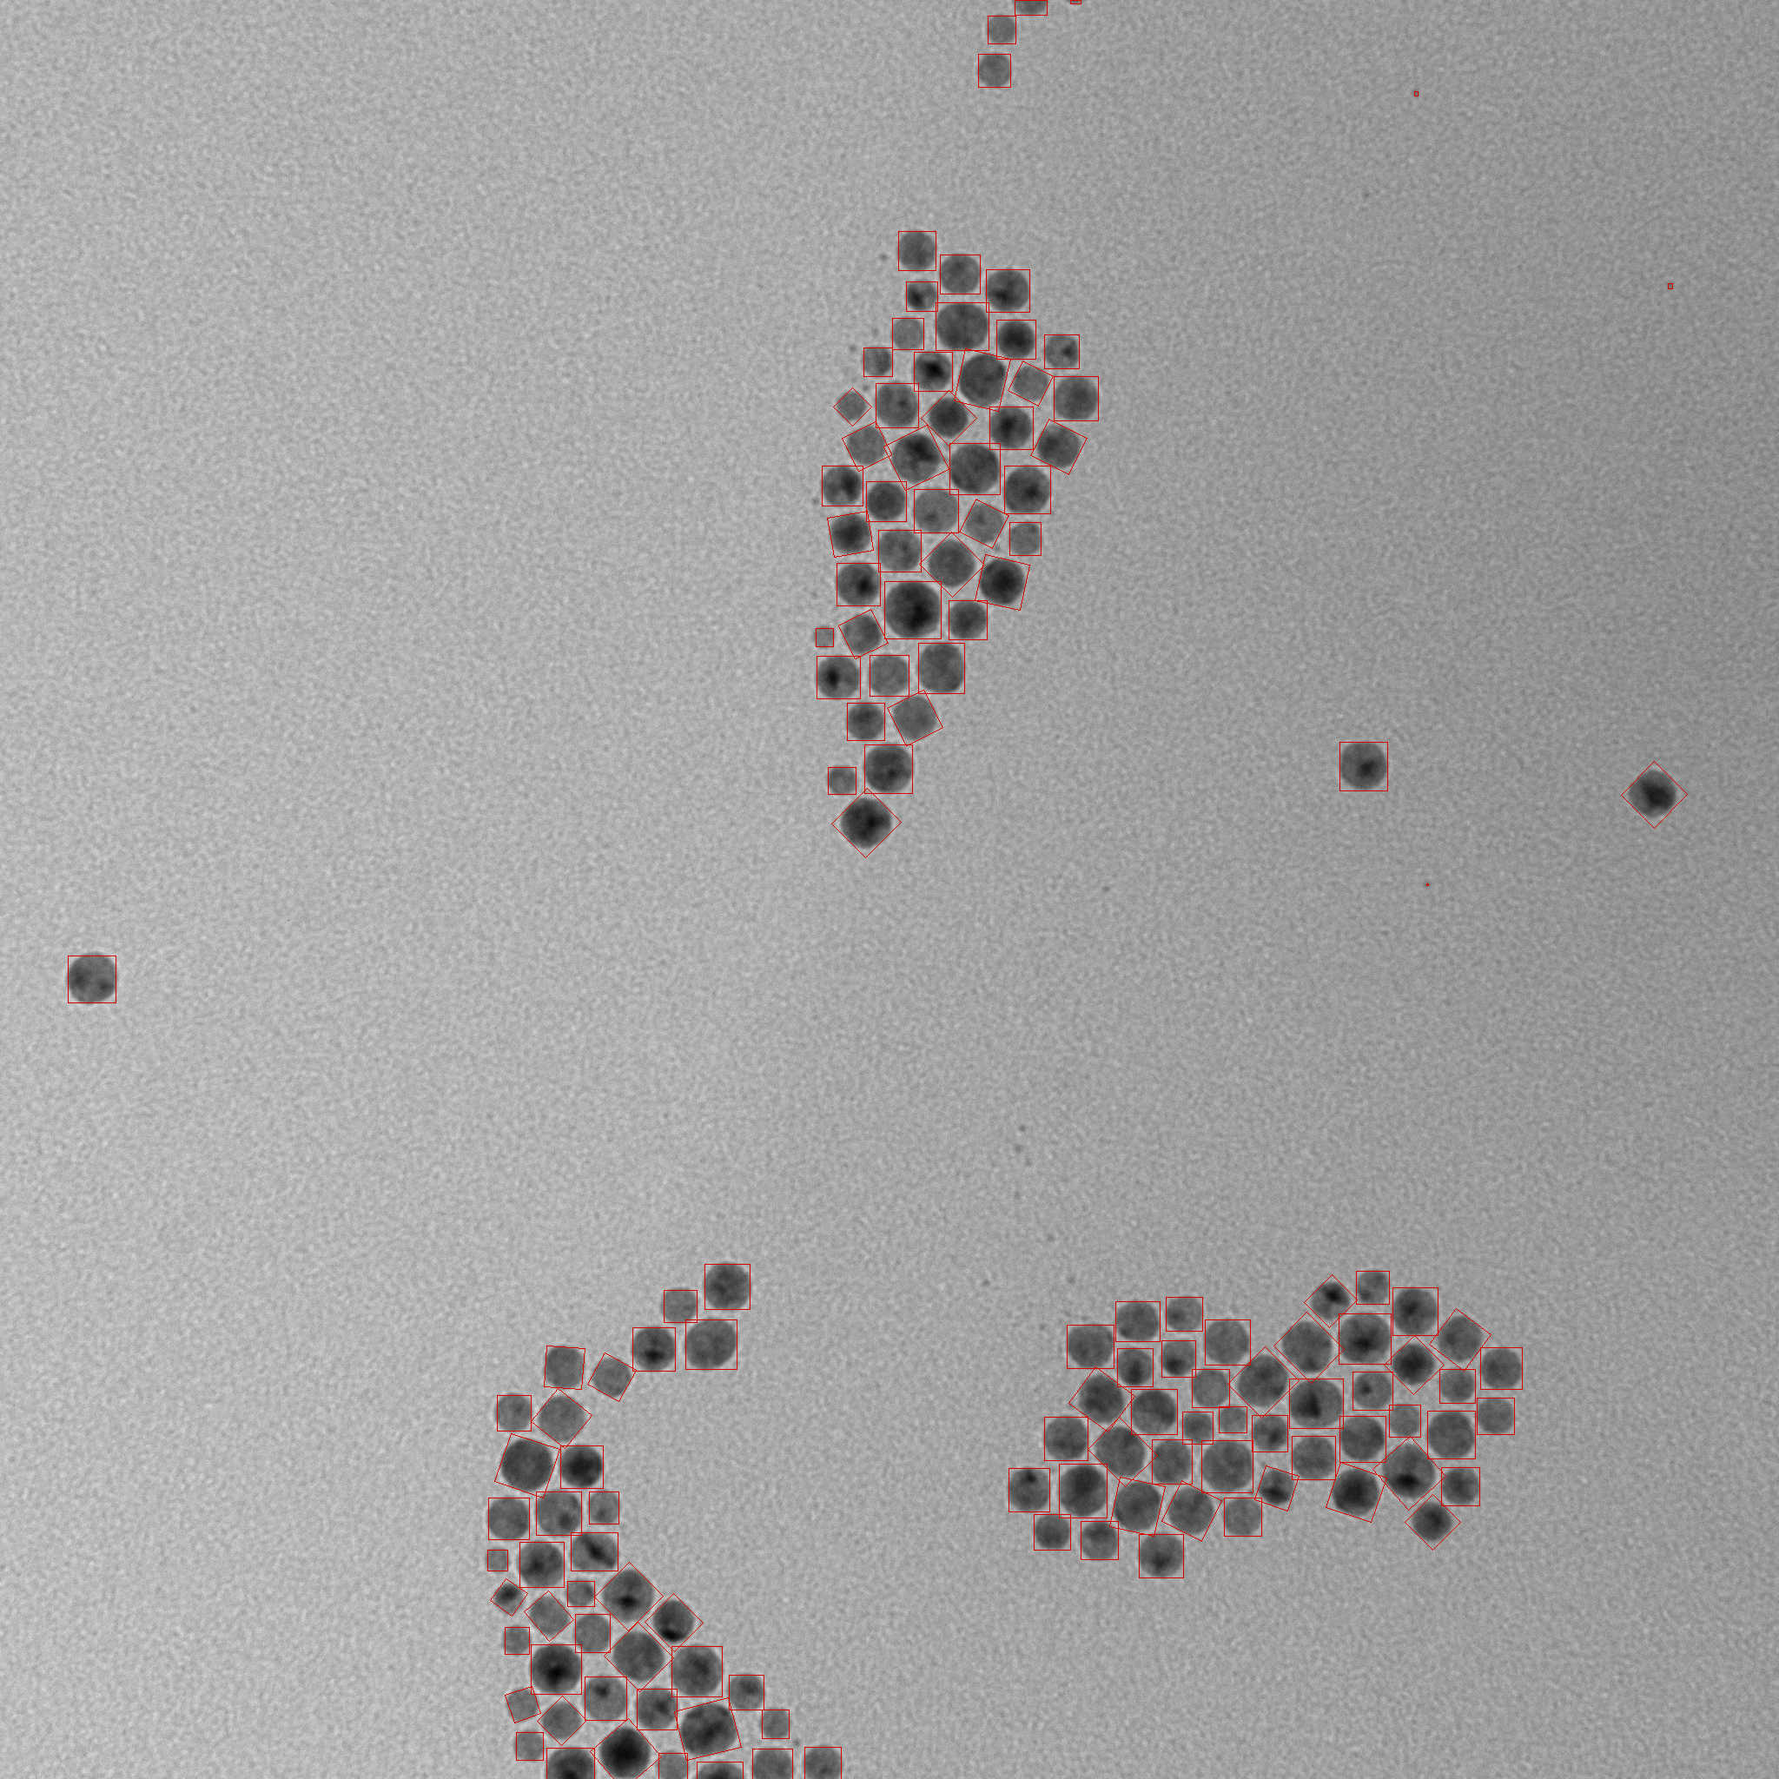
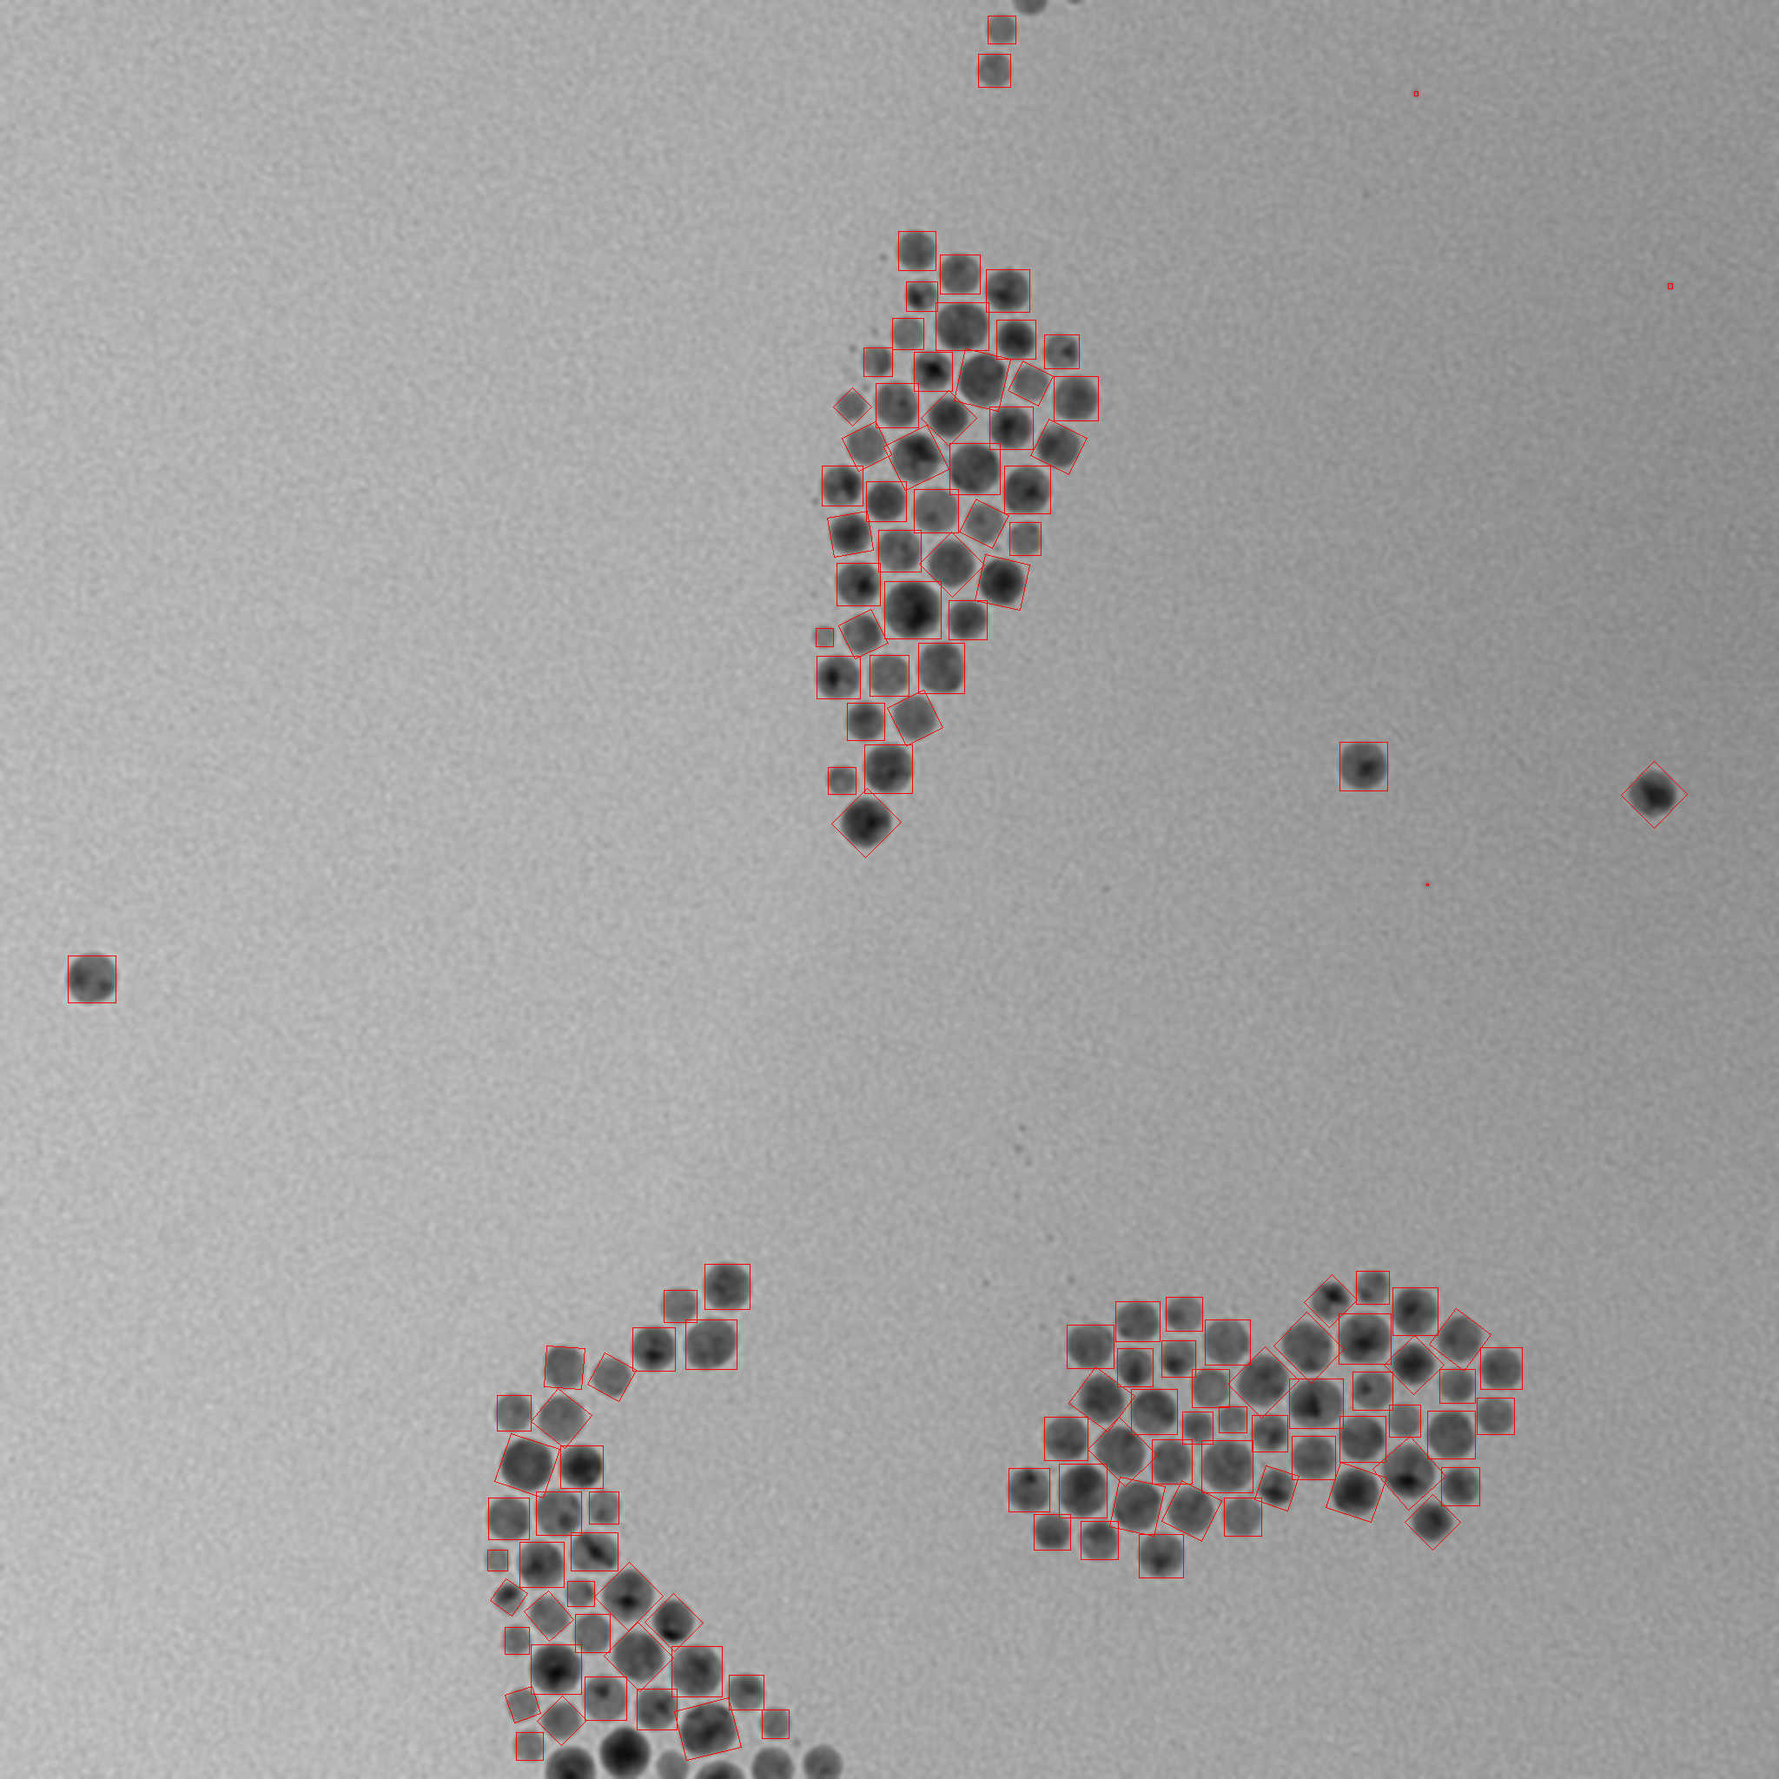
docs: redo size distribution example and fix screws example

diff --git a/docs/Tutorials/ROI analysis.md b/docs/Tutorials/ROI analysis.md
@@ -23,7 +23,7 @@ You can see a good image to use threshold on the left and an image for watershed
 ![Techniques comparison](./images/roiAnalysis/ThresholdOrWatershed.png)
 
 :::caution
-Before taking on the analysis of regions of interest we recommend to take a look at the tutorials for `watershed` and `threshold`.
+Before taking on the analysis of regions of interest we recommend to take a look at the tutorials for `watershed` and `threshold`, notably their options and the blurring techniques to optimize the output.
 :::
 
 First we need to extract regions of interest from a map for further analysis:
@@ -31,14 +31,19 @@ First we need to extract regions of interest from a map for further analysis:
 ```ts
 //in this case we are interested in dark regions of interest, so we
 //specify the kind of ROIs we want to extract.
-const rois = roiMap.getRois({ kind: 'black' });
+let rois = roiMap.getRois({ kind: 'black' });
+//Removes regions that did not fit in the image.
+//It gives you a better data sample.
+rois = clearBorder(mask, { color: 'black' });
 ```
+
+![Get ROIs](./images/roiAnalysis/MBR.jpg)
+
+Notice how the elements at the borders are not included. The reason is that these regions simply did not fit completely into our image ,so, their features, such as size or shape will not be represented correctly. So, we used `clearBorder` function to remove those elements. It is a good practice for regions' analysis.
 
 ## Getting distribution by size
 
 Now we have all the regions identified and stored. We can work on the analysis of those regions.
-
-![Get ROIs](./images/roiAnalysis/MBR.jpg)
 
 In this case we will take our regions and calculate their distribution by size. Size distribution analysis is a method used to characterize and quantify the range of sizes present within a sample of particles or objects. It can be an important piece of data be it for simple size measurement or particle characterization and biological analysis.
 
@@ -71,7 +76,9 @@ for (let i = minSurface; i < maxSurface; i += interval) {
   const count = rois.filter((roi) => {
     return roi.surface >= i && roi.surface < i + interval;
   }).length;
-  const intervalString = i + '-' + (i + interval);
+  //Deducted 1 from upper value so that the intervals
+  //will not look overlapped.
+  const intervalString = i + '-' + (i + interval - 1);
   bySizeDistribution.set(intervalString, {
     frequency: count,
     percentage: ((count / rois.length) * 100).toFixed(2),
@@ -85,20 +92,20 @@ Now you have a data about size distribution in our sample:
 
 | Interval (points) | Frequency | Percentage (%) |
 | ----------------- | --------- | -------------- |
-| 174-451           | 2         | 1.47           |
-| 451-728           | 13        | 9.56           |
-| 726-1005          | 7         | 5.15           |
-| 1005-1282         | 16        | 11.76          |
-| 1282-1559         | 19        | 13.97          |
-| 1559-1836         | 21        | 15.44          |
-| 1836-2113         | 20        | 14.71          |
-| 2113-2390         | 12        | 8.82           |
-| 2390-2667         | 16        | 11.76          |
-| 2667-2944         | 8         | 5.88           |
-| 2944-3221         | 1         | 0.74           |
-| 3221-3498         | 1         | 0.74           |
+| 2-297             | 2         | 1.54           |
+| 298-593           | 1         | 0.77           |
+| 594-889           | 11        | 8.46           |
+| 890-1185          | 10        | 7.69           |
+| 1186-1481         | 22        | 16.92          |
+| 1482-1777         | 19        | 14.62          |
+| 1778-2073         | 26        | 20.00          |
+| 2074-2369         | 13        | 10.00          |
+| 2370-2665         | 17        | 13.08          |
+| 2666-2961         | 7         | 5.38           |
+| 2962-3257         | 1         | 0.77           |
+| 3258-3553         | 1         | 0.77           |
 
-Even with this we can receive data like predominant particle size or size range, which can already give insights about properties of a sample. But in ImageJS we are not limited to analyze samples by size, there exist more advanced techniques that we will discuss further.
+With this we can receive data such as predominant particle size or size range, which can already give insights about properties of a sample. However, in ImageJS we are not limited to analyze samples by size, there exist more advanced techniques that we will discuss further.
 
 ## Analyzing regions with other properties and features
 
@@ -107,11 +114,11 @@ For the tutorial's sake let's take a more trivial example. Here we have a bunch 
 
 ![Screws and bolts](./images/roiAnalysis/good.jpg)
 
-The obvious distinction here between washers, nuts and other elements is the fact that they have holes in them. In this case we can use `fillRatio` property which gives a ratio of ROIs surfaces with and without holes. However, a better solution might be applying `holesInfo()` method to see the information about how many holes a region possesses.
-To make sure that we will get only washers and nuts we will also take their form factor into account and use `roundness` property. Roundness quantifies the deviation of an object's shape from a perfect circle. So, if the roundness of the perfect circle is 1, we will use 0.6 as a measure for our regions.
+What sets nuts and washers apart from other elements is the fact that they have holes in them. In this case we can use `fillRatio` property which gives a ratio of ROIs surfaces with and without holes. We will also be applying `holesInfo()` method to see the information about how many holes a region possesses.
+Finally we will also take their form factor into account and use `roundness` property. Roundness quantifies the deviation of an object's shape from a perfect circle. So, if the roundness of the perfect circle is 1, we will use 0.6 as a measure for our regions.
 
-It is reasonable to assume that you don't know exactly what is the exact roundness coefficient of a washer, so you will eyeball it to see if your guess is close enough or not.
-To visualize it better you can use `paintMask()` method to paint a mask of a region of interest on the image. Don't forget to indicate ROIs origin and color of your choice, otherwise the result might be subpar.
+It is reasonable to assume that you don't know exactly what is the exact roundness coefficient or fill ratio of a washer, so you will eyeball it to see if your guess is close enough or not.
+To visualize it better you can use `paintMask()` method to paint a mask of a region of interest on the image.
 
 ```ts
 let mask = sourceImage
@@ -121,9 +128,6 @@ let mask = sourceImage
   //here. Check multiple algorithms to see which one
   //fits your needs best.
   .threshold({ algorithm: 'renyiEntropy' });
-//We are using clearBorder is a good practice for image analysis
-//because often borderline objects and therefore useless for
-//analysis.
 mask = clearBorder(mask, { color: 'black' });
 const roiMap = fromMask(mask);
 const rois = roiMap.getRois({ kind: 'black' });
@@ -131,7 +135,11 @@ const rois = roiMap.getRois({ kind: 'black' });
 let image = sourceImage;
 const washersAndNuts = [];
 for (const roi of rois) {
-  if (roi.holesInfo().number >= 1 && roundness > 0.6 && ) {
+  if (
+    roi.holesInfo().number >= 1 &&
+    roi.roundness > 0.6 &&
+    roi.fillRatio() < 0.9
+  ) {
     //paintMask allows painting regions of interest on our
     //image. We recommend using it for highlighting regions
     //and for visual aid.
@@ -147,12 +155,12 @@ With this we will have our nuts and washers **ready for analysis**.
 
 ![Finding washers and nuts](./images/roiAnalysis/screwsMask4.jpg)
 
-There might be confusion about why some of the regions were left out. We consider them not eligible for analysis. The reason is that if objects are stuck to each other, the algorithm considers them as one region. Obviously, it is a problem because two washers put together have completely different properties than a single washer.The data becomes misleading. For the same reason a washer below is not treated as well. Since an object is not captured completely, it reduces it's roundness, tampers with its ratios, surface etc.
+Like in previous example, we consider some regions not suited for analysis. One of the reasons here is that if objects are stuck to each other, the algorithm considers them as one region. Obviously, it is a problem because two washers put together have completely different properties than a single washer.The data becomes erroneous. A washer below is not treated as well for the reasons mentioned in the previous example.
 
 ![Ignored groups](./images/roiAnalysis/ignoredGroups.jpg)
 
 Now we need to distinguish washers from nuts. To do so, we will use the aspect ratio of [minimum bounding rectangle](../Features/Regions%20of%20interest/MBR.md 'internal link on mbr') (MBR). The MBR is the smallest rectangle that can fit our region. Its aspect ratio will help us deduce whether it is a hexagon or a circle.
-So, we will add some additional conditions to sort our regions. Methodically looking for the limit aspect ratio, we deduced that the threshold between a nut and a washer is approximately 0.932. It is not the most straight-forward value to find, and we found it empirically, by looking at MBR aspects of all ROIs and deducing the threshold between two kinds of fasteners. So the only thing left is to sort them into different arrays:
+So, we will add some additional conditions to sort our regions. Methodically looking for the limit aspect ratio, we deduced that the threshold between a nut and a washer is approximately 0.932. It is not the most straight-forward value to find, and we found it empirically by looking at MBR aspects of all ROIs and deducing the threshold between two kinds of fasteners. So the only thing left is to sort them into different arrays:
 
 ```ts
 const washers = [];
@@ -190,7 +198,7 @@ To get to this point we have a code like this:
 
 ```ts
 let mask = sourceImage
-  .gaussianBlur({ sigma: 3, size: 3 })
+  .blur({ width: 3, height: 3 })
   .grey()
   .threshold({ algorithm: 'renyiEntropy' });
 mask = clearBorder(mask, { allowCorners: false, color: 'black' });
@@ -198,8 +206,8 @@ const roiMap = fromMask(mask);
 const rois = roiMap.getRois({ kind: 'black' });
 let image = sourceImage;
 const washersAndNuts = [];
-// part where elements get picked apart from
-//bolts and screws
+//Part where elements get picked apart from
+//bolts and screws.
 for (const roi of rois) {
   if (roi.holesInfo.number >= 1 && roi.roundness > 0.6) {
     console.log(roi.id, roi.roundness, roi.mbr.aspectRatio);
@@ -210,7 +218,7 @@ for (const roi of rois) {
     washersAndNuts.push(roi);
   }
 }
-//part where elements are distinguished
+//Part where elements are distinguished.
 const washers = [];
 const nuts = [];
 for (const roi of washersAndNuts) {
@@ -240,39 +248,19 @@ These are some of the basic elements of ROI analysis.
 
 | ID   | MBR Aspect Ratio   | Roundness          | Type of object |
 | ---- | ------------------ | ------------------ | -------------- |
-| -334 | 0.8486055776892426 | 0.7395141926907502 | nut            |
-| -189 | 0.8571428571428572 | 0.6362497879977436 | nut            |
-| -346 | 0.8573883161512026 | 0.6415420901951657 | nut            |
+| -325 | 0.8486055776892426 | 0.7395141926907502 | nut            |
+| -181 | 0.8571428571428572 | 0.6362497879977436 | nut            |
+| -337 | 0.8573883161512026 | 0.6415420901951657 | nut            |
 | -225 | 0.8606205250596659 | 0.620587471293423  | nut            |
-| -233 | 0.9248120300751881 | 0.5964629322266488 | nut            |
-| -262 | 0.9318181818181818 | 0.6843448451890717 | nut            |
-| -356 | 0.9342105263157895 | 0.6633150795404446 | nut            |
-| -297 | 0.9428571428571428 | 0.5931423404475458 | washer         |
-| -311 | 0.9590909090909098 | 0.6970505527744227 | washer         |
-| -337 | 0.9621212121212122 | 0.7566368727646887 | washer         |
-| -289 | 0.9690721649484533 | 0.6784922893542326 | washer         |
-| -268 | 0.9701492537313433 | 0.7137816522045993 | washer         |
-| -296 | 0.9701492537313433 | 0.7268334194156458 | washer         |
-| -255 | 0.9793103448275862 | 0.8277530015726191 | washer         |
+| -217 | 0.8618546845124285 | 0.5964629322266488 | nut            |
+| -254 | 0.9318181818181818 | 0.6841891353266851 | nut            |
+| -347 | 0.9342105263157895 | 0.6633150795404446 | washer         |
+| -289 | 0.9428571428571428 | 0.5931423404475458 | washer         |
+| -303 | 0.9590909090909098 | 0.6970505527744227 | washer         |
+| -328 | 0.9621212121212122 | 0.7566368727646887 | washer         |
+| -281 | 0.9690721649484533 | 0.6784922893542326 | washer         |
+| -260 | 0.9701492537313433 | 0.7137816522045993 | washer         |
+| -288 | 0.9701492537313433 | 0.7268334194156458 | washer         |
+| -247 | 0.9793103448275862 | 0.8277530015726191 | washer         |
 
-However, this is just a fraction of tools that ImageJS possesses. There are other properties that you can discover more about in our [API features](../Features/Regions%20of%20interest/Regions%20of%20interest.md) section. Here is an example of the properties that you can use with any region of interest:
-
-| Feature         | Type         | Value                                                                  |
-| --------------- | ------------ | ---------------------------------------------------------------------- |
-| `id`            | `number`     | -75                                                                    |
-| `origin`        | `Point`      | `{ row: 2390, column: 206 }`                                           |
-| `height`        | `number`     | 411                                                                    |
-| `width`         | `number`     | 358                                                                    |
-| `surface`       | `number`     | 78022                                                                  |
-| `eqpc`          | `number`     | 315.18359056163894                                                     |
-| `ped`           | `number`     | 469.58631480264023                                                     |
-| `feret`         | `Feret`      | `feret: {minDiameter, maxDiameter, aspectRatio}`                       |
-| `fillRatio`     | `number`     | 0.9239277171210004                                                     |
-| `sphericity`    | `number`     | 0.671194156699617                                                      |
-| `roundness`     | `number`     | 0.5064165481909365                                                     |
-| `solidity`      | `number`     | 0.8081705794917212                                                     |
-| `perimeter`     | `number`     | 1475.2489168102784                                                     |
-| `convexHull`    | `ConvexHull` | `convexHull: {points,perimeter,surface}`                               |
-| `mbr`           | `Mbr`        | `mbr: {points, surface, angle, width, height, perimeter, aspectRatio}` |
-| `filledSurface` | `number`     | 84446,                                                                 |
-| `centroid`      | `Point`      | `{ column: 385.2887262566968, row: 2593.7994283663584 }`               |
+However, this is just a fraction of tools that ImageJS possesses. There are other properties that you can discover more about in our [API features](../Features/Regions%20of%20interest/Regions%20of%20interest.md) section.
